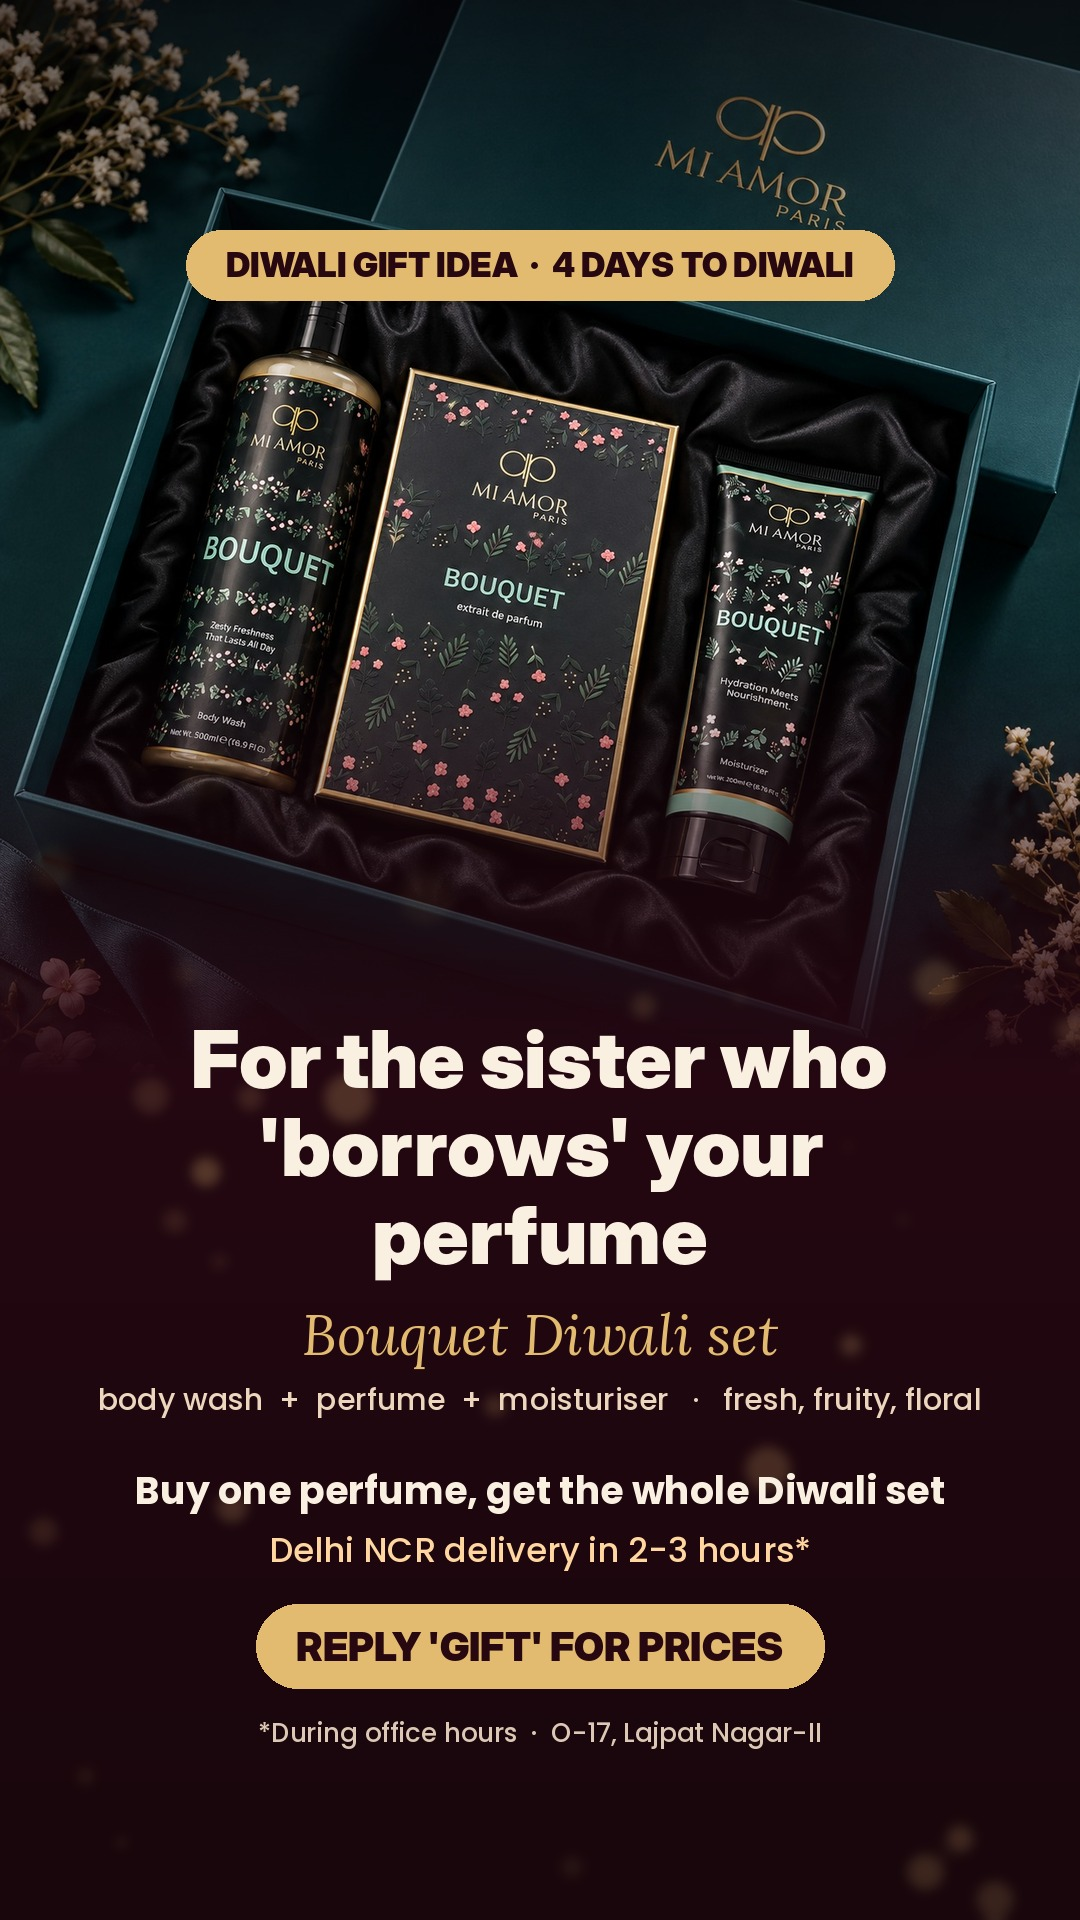
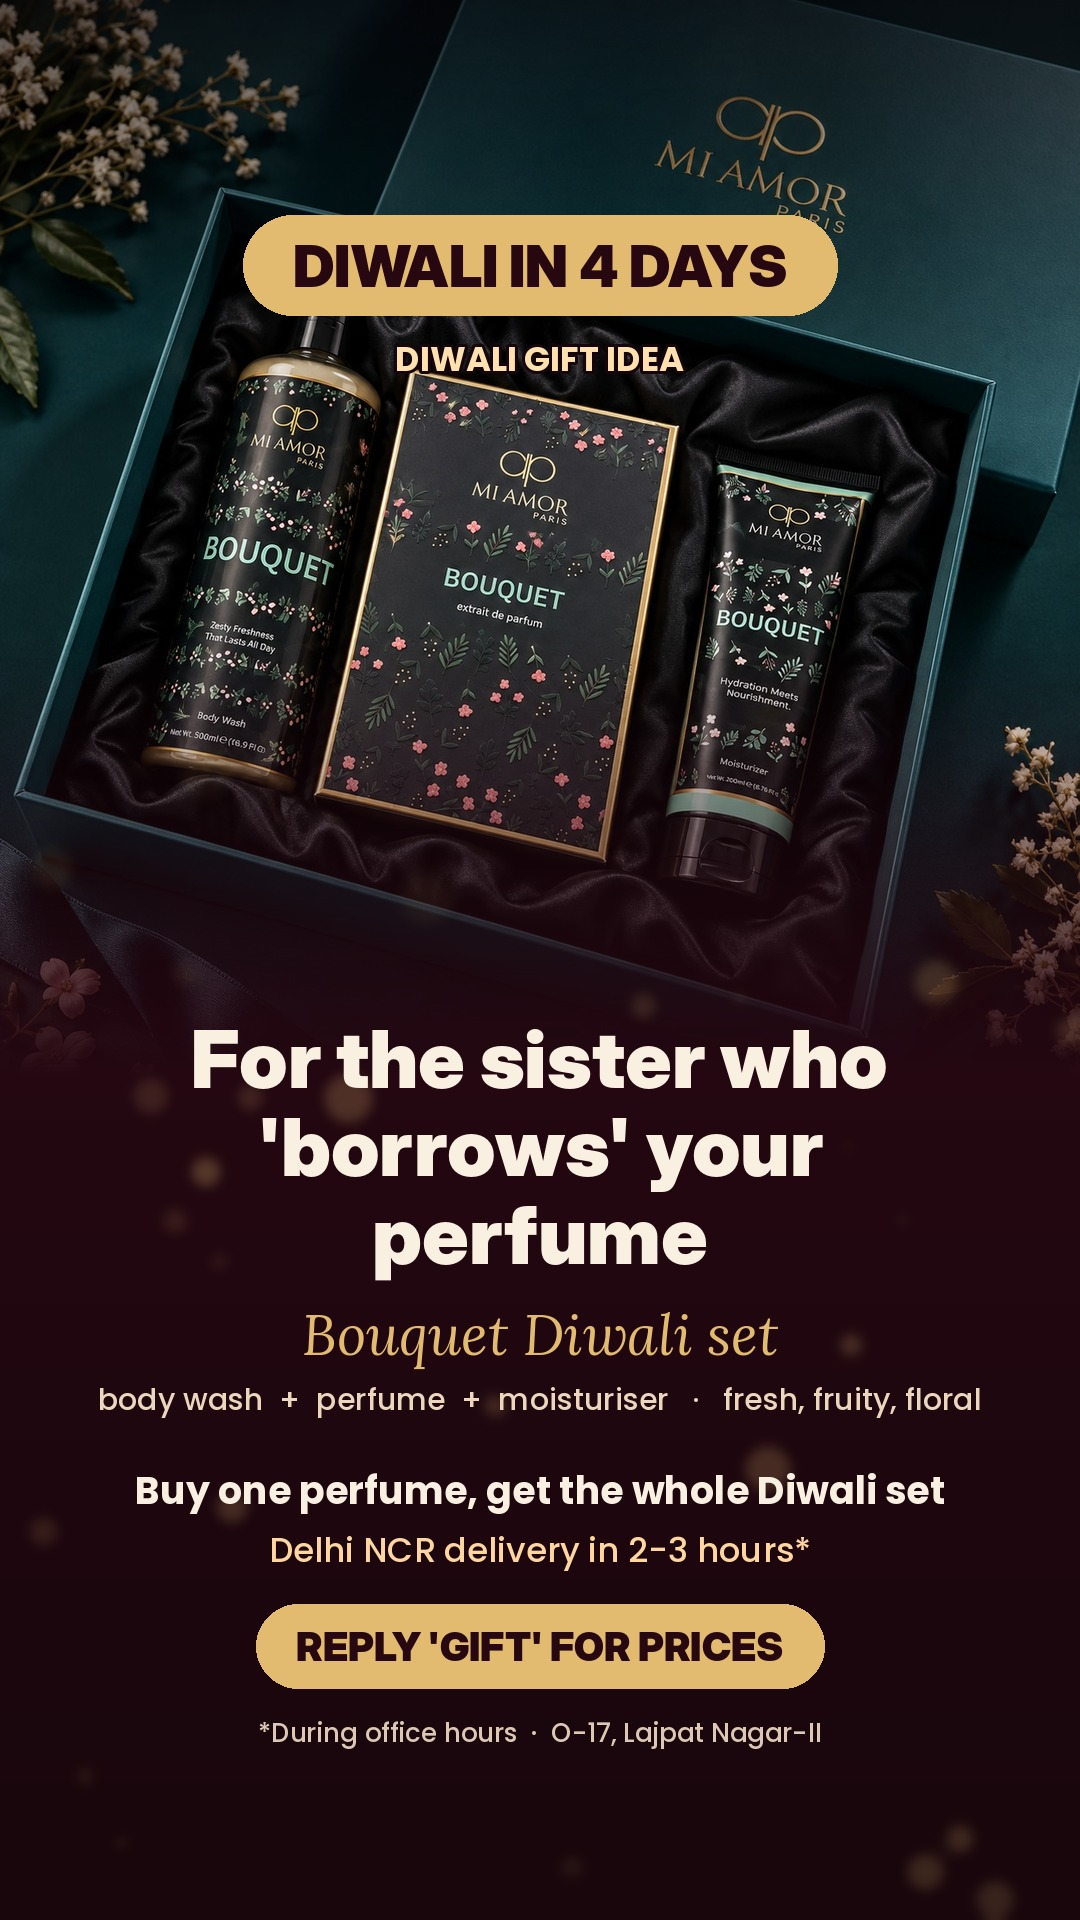
Diwali Stories: verified facts (UNESCO, Ayodhya record, NYC schools, USPS stamp...), 'DIWALI IN N DAYS' countdown; today's pair
Claude-Session: https://claude.ai/code/session_01EGKSNR6TWp2s62tz2nxdSr

Changed region(s): [[0.1528, 0.0938, 0.825, 0.2188]]

diff --git a/ops/stories/diwali.py b/ops/stories/diwali.py
@@ -19,14 +19,16 @@ def lora(s, it=True): return ImageFont.truetype("/usr/share/fonts/truetype/googl
 def pop(s, w="Medium"): return ImageFont.truetype(f"/usr/share/fonts/truetype/google-fonts/Poppins-{w}.ttf", s)
 
 # ---- content banks (verified, general-knowledge facts; keep wording simple) ----
-FACTS = [
-    ("'Diwali' comes from Deepavali.", "Deep means lamp, avali means row.\nLiterally: a row of lights.", "Light up someone's Diwali this year."),
-    ("It falls on the darkest night of the year's calendar.", "Diwali is on Amavasya, the new-moon night of Kartik.\nNo moon, so every home brings the light.", "Bring some glow to the people you love."),
-    ("Diwali isn't one day. It's five.", "Dhanteras, Choti Diwali, Diwali,\nGovardhan Puja and Bhai Dooj.", "Five days. Plenty of people to gift."),
-    ("Many faiths, one festival of lights.", "Rama's return to Ayodhya, Bandi Chhor Divas for Sikhs,\nand Mahavira's nirvana for Jains.", "However you celebrate, gift something that lasts."),
-    ("Why do we exchange gifts?", "Sharing sweets and gifts at Diwali is about\nsharing good fortune with the people around you.", "Share the good fortune. Gift a scent."),
-    ("Rangoli is a welcome mat.", "The colours at the doorstep welcome\nguests and good luck into the home.", "Walk in with a gift worth the welcome."),
-    ("Bhai Dooj closes the five days.", "The last day celebrates the bond\nbetween brothers and sisters.", "Sorted the sibling gift yet?"),
+FACTS = [  # (headline, detail, gifting line). Every fact verified by web search on 4 Nov 2026; sources in ops/stories/diwali_sources.md.
+    ("Diwali is now world heritage.", "In December 2025 UNESCO added Deepavali to its list of the Intangible Cultural Heritage of Humanity. Announced at the Red Fort, New Delhi.", "A festival the whole world celebrates deserves a gift to match."),
+    ("'Diwali' literally means a row of lights.", "It comes from the Sanskrit Deepavali: deep means lamp, avali means row.", "Light up someone's Diwali this year."),
+    ("26,17,215 diyas. One night.", "Ayodhya's Deepotsav set a Guinness World Record in October 2025, counted by drones.", "Your gift doesn't need a record. Just the right scent."),
+    ("Diwali shuts schools in New York City.", "On 1 November 2024, every NYC public school closed for Diwali for the first time ever.", "Diwali is going global. So is good taste."),
+    ("Diwali has its own US postage stamp.", "The US Postal Service issued a Diwali Forever stamp on 5 October 2016, with lit diyas on it.", "Some things are made to be sent. Like a Diwali gift."),
+    ("It's a public holiday far beyond India.", "Nepal, Malaysia, Singapore, Mauritius and Fiji all celebrate it as a public holiday.", "Wherever your people are, send the glow."),
+    ("Diwali isn't one day. It's five.", "Dhanteras, Choti Diwali, Diwali, Govardhan Puja and Bhai Dooj.", "Five days. Plenty of people to gift."),
+    ("It lights up the darkest night of the month.", "Diwali falls on Amavasya, the new-moon night, which is why every home brings the light.", "Bring some glow to the people you love."),
+    ("Rangoli is a welcome at the door.", "The colours at the doorstep welcome guests and good luck into the home.", "Walk in with a gift worth the welcome."),
 ]
 GIFTS = [  # (box photo, who it's for, set name, line)
     ("bouquet", "For the sister who 'borrows' your perfume", "Bouquet Diwali set", "fresh, fruity, floral"),
@@ -82,7 +84,9 @@ def rounded(img, size, rad=32, border=GOLD):
 
 def countdown_label(days):
     if days is None: return None
-    return "DIWALI IS TODAY" if days == 0 else ("1 DAY TO DIWALI" if days == 1 else f"{days} DAYS TO DIWALI")
+    if days == 0: return "HAPPY DIWALI"
+    if days == 1: return "DIWALI TOMORROW"
+    return f"DIWALI IN {days} DAYS"
 
 def fact(n, out, days=None):
     title, body, tie = FACTS[(n - 1) % len(FACTS)]
@@ -91,10 +95,13 @@ def fact(n, out, days=None):
 def _fact_final(n, out, days, title, body, tie, box):
     im = background(100 + n); d = ImageDraw.Draw(im)
     lab = countdown_label(days)
-    if lab: d.text((W / 2, 205), lab, font=pop(30, "Bold"), fill=(255, 210, 150), anchor="ma")
-    pill(im, 260, f"DIWALI FUN FACT  #{n}", inter(40, "Black"))
-    y = wrap_center(d, 420, title, inter(92, "Black"), IVORY, maxw=920, lh=1.1)
-    y = wrap_center(d, y + 40, body, lora(48), (240, 214, 178), maxw=960, lh=1.3)
+    if lab:
+        pill(im, 215, lab, inter(58, "Black"), h=100, padx=50)
+        d.text((W / 2, 345), f"DIWALI FUN FACT #{n}", font=pop(34, "Bold"), fill=(255, 210, 150), anchor="ma")
+    else:
+        pill(im, 260, f"DIWALI FUN FACT  #{n}", inter(40, "Black"))
+    y = wrap_center(d, 440, title, inter(90, "Black"), IVORY, maxw=920, lh=1.1)
+    y = wrap_center(d, y + 36, body, lora(48), (240, 214, 178), maxw=900, lh=1.3)
     diya_row(im, max(y + 110, 1040)); d = ImageDraw.Draw(im)
     yb = 1270; card = rounded(Image.open(BOX + box + "_box.jpg"), 300); im.alpha_composite(card, (80, yb))
     tx, maxw = 425, 590
@@ -108,7 +115,7 @@ def _fact_final(n, out, days, title, body, tie, box):
     y2 = colwrap(yb + 14, tie, inter(46, "ExtraBold"), IVORY)
     y2 = colwrap(y2 + 10, "Buy one perfume, get the whole Diwali set.", pop(34, "Medium"), (240, 214, 178))
     d.rounded_rectangle((tx, y2 + 16, tx + 400, y2 + 86), 35, fill=GOLD); d.text((tx + 200, y2 + 51), "Reply 'GIFT' for prices", font=pop(30, "Bold"), fill=(40, 8, 16), anchor="mm")
-    lg = LOGO.resize((150, int(LOGO.height * 150 / LOGO.width)), Image.LANCZOS); im.alpha_composite(lg, ((W - 150) // 2, 1640))
+    lg = LOGO.resize((150, int(LOGO.height * 150 / LOGO.width)), Image.LANCZOS); im.alpha_composite(lg, ((W - 150) // 2, 1700))
     im.convert("RGB").save(out, quality=92); return out
 
 def gift(n, out, days=None):
@@ -120,7 +127,8 @@ def gift(n, out, days=None):
     top = Image.new("RGBA", (W, 420)); top.putalpha(Image.linear_gradient("L").rotate(180).resize((W, 420)).point(lambda v: int(v * 0.65)))
     im.alpha_composite(Image.composite(Image.new("RGBA", (W, 420), (10, 2, 6, 255)), Image.new("RGBA", (W, 420)), top.getchannel("A")), (0, 0))
     lab = countdown_label(days)
-    pill(im, 230, "DIWALI GIFT IDEA" + (f"  ·  {lab}" if lab else ""), inter(34, "Black"), h=70)
+    pill(im, 215, lab if lab else "DIWALI GIFT IDEA", inter(58 if lab else 40, "Black"), h=100 if lab else 78, padx=50)
+    if lab: ImageDraw.Draw(im).text((W / 2, 335), "DIWALI GIFT IDEA", font=pop(34, "Bold"), fill=(255, 225, 175), anchor="ma", stroke_width=3, stroke_fill=(20, 6, 10))
     d = ImageDraw.Draw(im)
     y = wrap_center(d, 1010, who, inter(80, "Black"), IVORY, maxw=900, lh=1.1)
     d.text((W / 2, y + 24), setname, font=lora(56), fill=GOLD, anchor="ma")

diff --git a/ops/stories/diwali_sources.md b/ops/stories/diwali_sources.md
@@ -1,0 +1,9 @@
+# Diwali fact sources (checked 4 Nov 2026)
+1. UNESCO ICH, Dec 2025, Red Fort, India's 16th element: https://www.newsonair.gov.in/unesco-adds-deepavali-to-intangible-cultural-heritage-list
+2. Deepavali = row of lamps (Sanskrit deepa + avali): standard etymology.
+3. Ayodhya Deepotsav Oct 2025, 26.17 lakh diyas, Guinness, drone count: https://www.deccanherald.com/india/uttar-pradesh/ayodhya-deepotsav-new-world-record-with-2617-lakh-diyas-2128-people-performing-aarti-together-3769719
+4. NYC public schools first Diwali closure 1 Nov 2024: https://qns.com/2024/11/nyc-public-schools-close-for-first-ever-diwali-holiday-marking-historic-milestone-for-south-asian-community
+5. USPS Diwali Forever stamp 5 Oct 2016: https://about.usps.com/news/national-releases/2016/pr16_078.htm
+6. Public holiday: Nepal, Malaysia, Singapore, Mauritius, Fiji: https://zeenews.india.com/india/did-you-know-diwali-is-public-holiday-in-10-countries-2050900.html
+7-9. Five days / Amavasya / rangoli: standard knowledge.
+Rule (Tannay 4 Nov): nothing that could offend any religion; knowledge and celebration of Diwali only; only confirmed facts.
